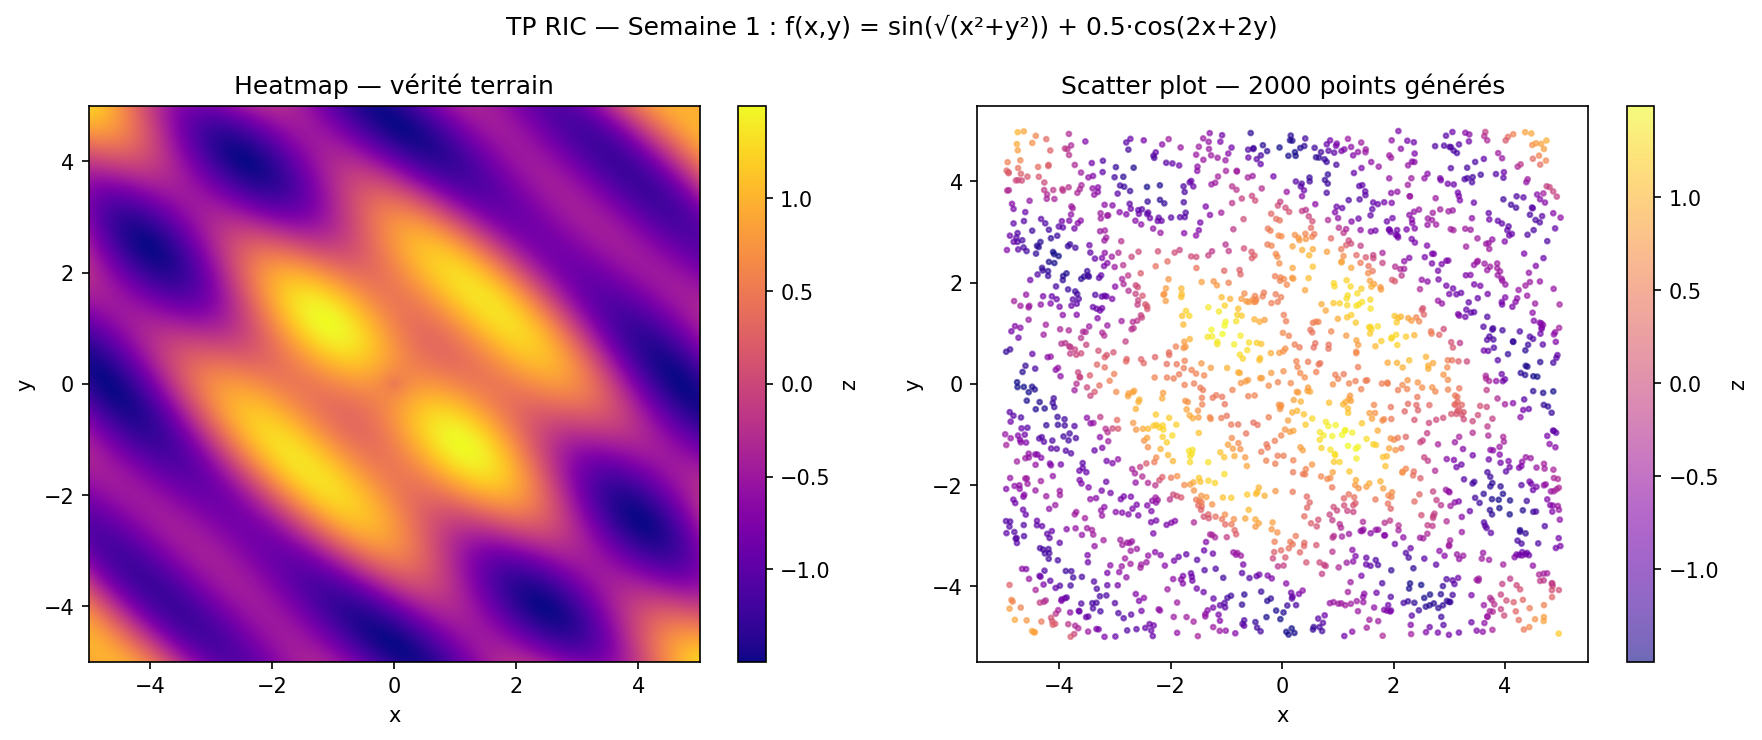
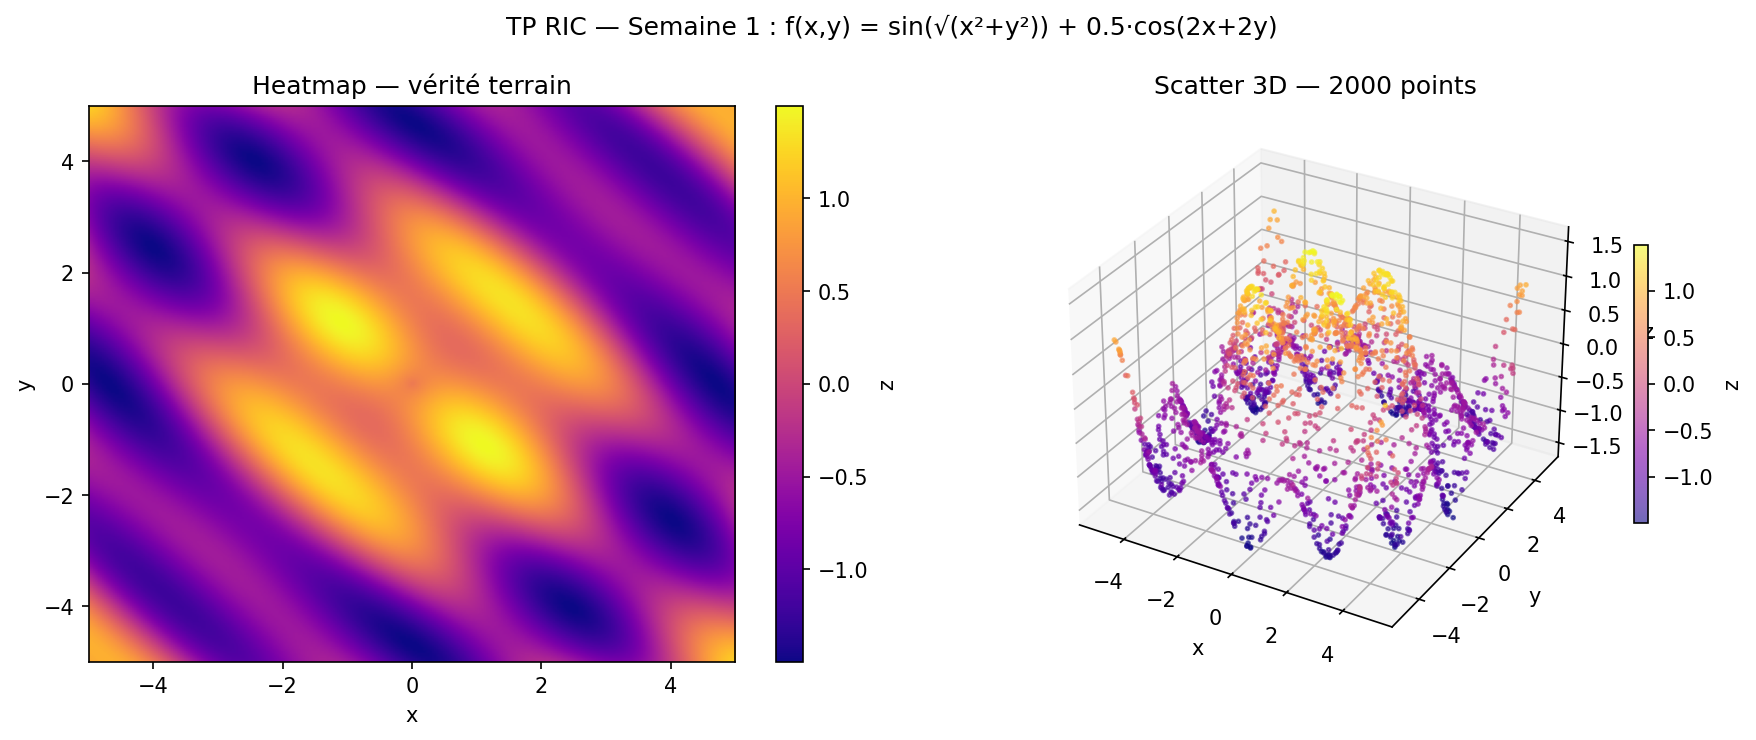
Semaine 1 : heatmap + scatter 3D

diff --git a/semaine1_dataset.py b/semaine1_dataset.py
@@ -63,24 +63,25 @@ yg = np.linspace(-5, 5, res)
 Xg, Yg = np.meshgrid(xg, yg)
 Zg = f(Xg, Yg)
 
-fig, axes = plt.subplots(1, 2, figsize=(12, 5))
+fig = plt.figure(figsize=(12, 5))
 fig.suptitle("TP RIC — Semaine 1 : f(x,y) = sin(√(x²+y²)) + 0.5·cos(2x+2y)", fontsize=12)
 
 # Heatmap
-ax = axes[0]
-im = ax.imshow(Zg, extent=[-5, 5, -5, 5], origin='lower', cmap='plasma', aspect='auto')
-plt.colorbar(im, ax=ax, label='z')
-ax.set_title("Heatmap — vérité terrain")
-ax.set_xlabel("x")
-ax.set_ylabel("y")
+ax1 = fig.add_subplot(1, 2, 1)
+im = ax1.imshow(Zg, extent=[-5, 5, -5, 5], origin='lower', cmap='plasma', aspect='auto')
+plt.colorbar(im, ax=ax1, label='z')
+ax1.set_title("Heatmap — vérité terrain")
+ax1.set_xlabel("x")
+ax1.set_ylabel("y")
 
-# Scatter plot des 2000 points
-ax = axes[1]
-sc = ax.scatter(x_raw, y_raw, c=z_raw, cmap='plasma', s=5, alpha=0.6)
-plt.colorbar(sc, ax=ax, label='z')
-ax.set_title("Scatter plot — 2000 points générés")
-ax.set_xlabel("x")
-ax.set_ylabel("y")
+# Scatter 3D
+ax2 = fig.add_subplot(1, 2, 2, projection='3d')
+sc = ax2.scatter(x_raw, y_raw, z_raw, c=z_raw, cmap='plasma', s=3, alpha=0.6)
+plt.colorbar(sc, ax=ax2, label='z', shrink=0.5)
+ax2.set_title("Scatter 3D — 2000 points")
+ax2.set_xlabel("x")
+ax2.set_ylabel("y")
+ax2.set_zlabel("z")
 
 plt.tight_layout()
 plt.savefig("semaine1_visualisation.png", dpi=150, bbox_inches='tight')
